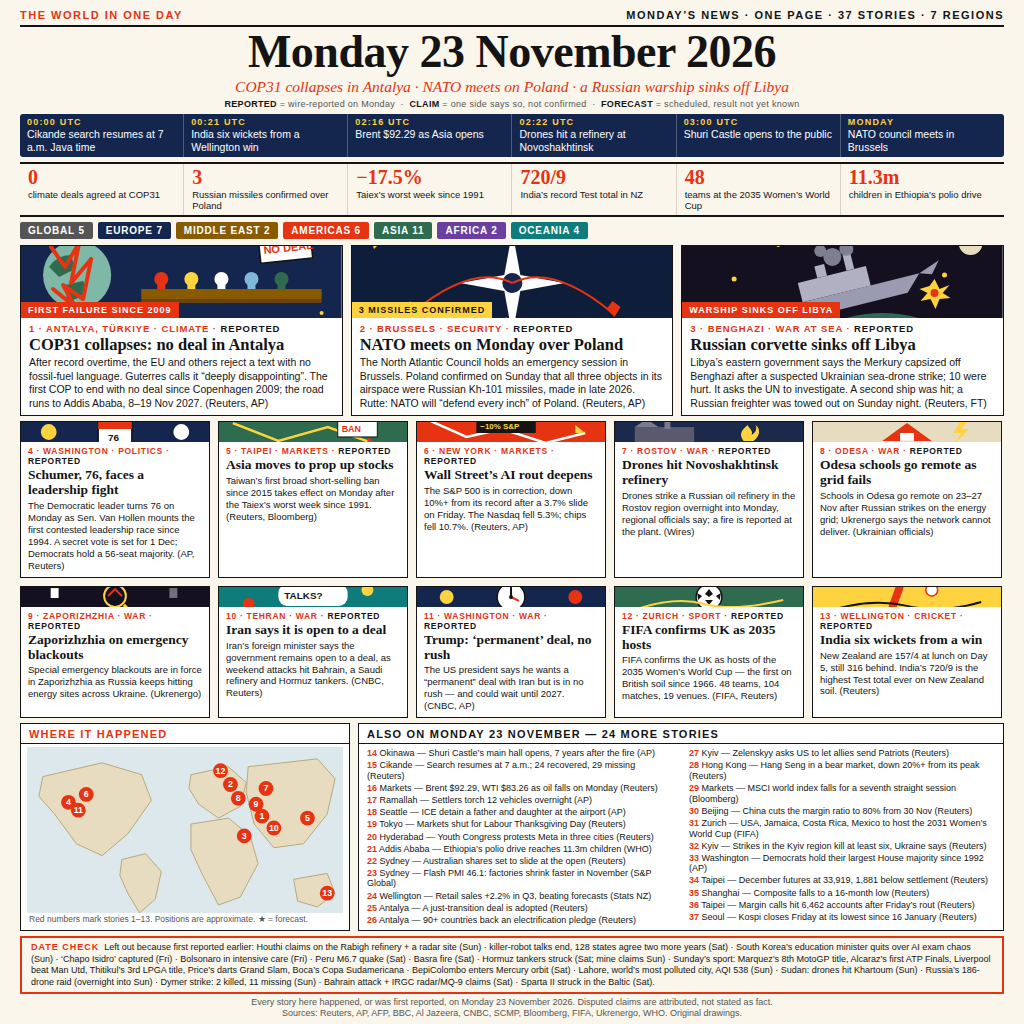
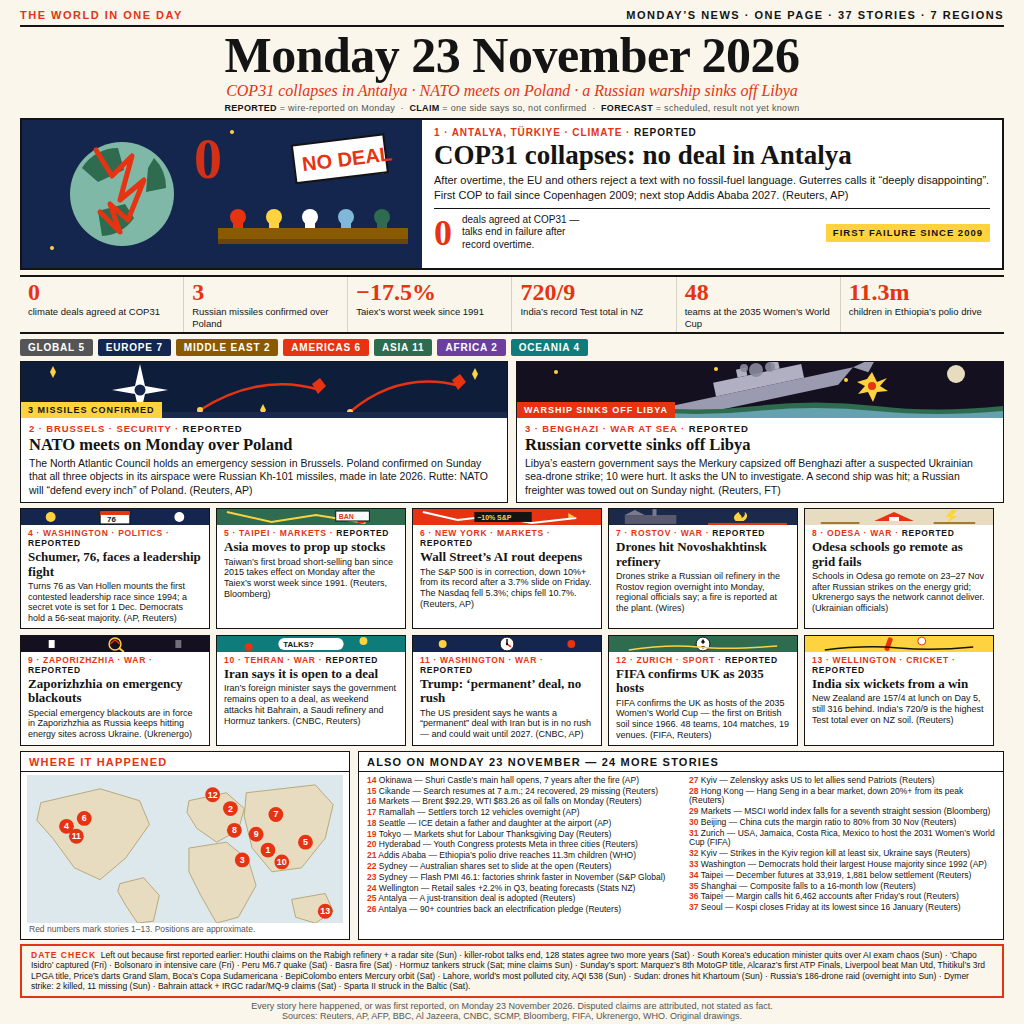
v2 poster redesign: dominant COP31 hero, bigger numbers, denser layout (37 stories, 7 regions)

diff --git a/main.ts b/main.ts
@@ -6,6 +6,9 @@ import { fileURLToPath } from "node:url";
 // Sum up 23 November 2026's world news in one image: this program copies
 // the pre-rendered 1024x1024 front page (entry.png, 37 stories, 7 regions)
 // into /output. Standard library only, no network.
+// v2 (24 Nov): poster redesign — one dominant COP31 hero band with a giant
+// red 0 and NO DEAL placard, bigger numbers strip, tighter cards, denser
+// bottom half; same 37 verified 23-Nov stories as v1.
 const here = dirname(fileURLToPath(import.meta.url));
 const src = join(here, "entry.png");
 const outDir = "/output";
